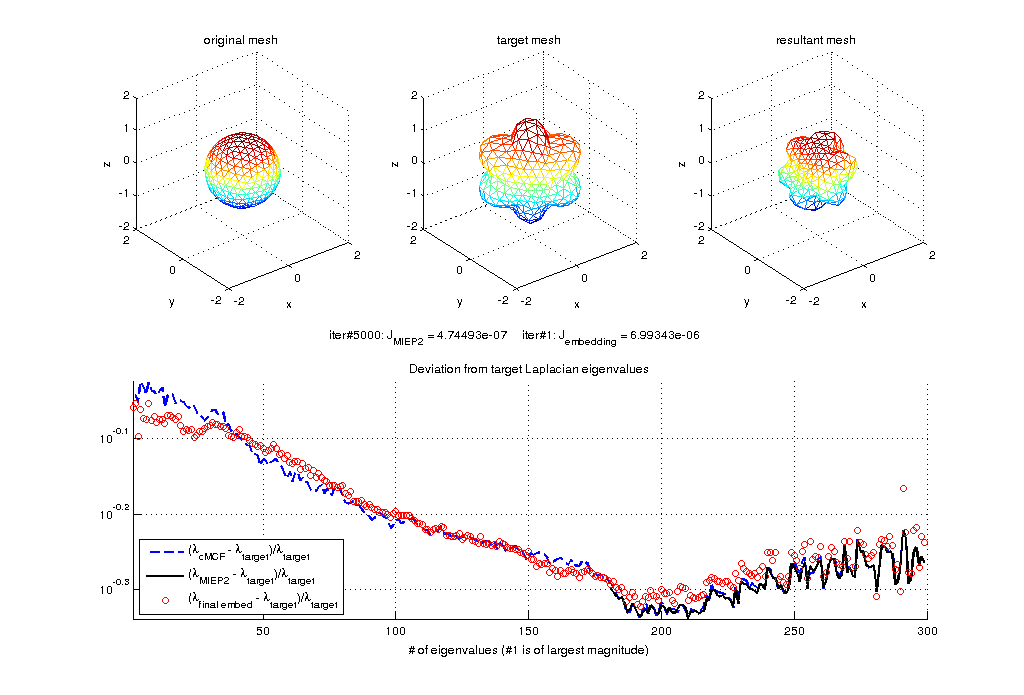
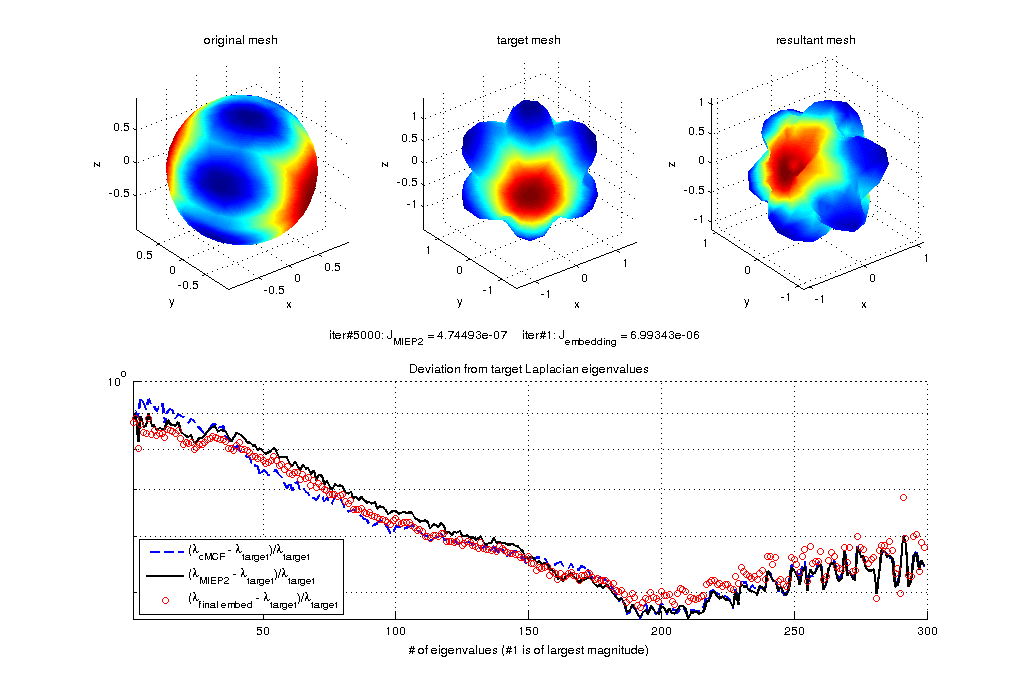
new_vis

diff --git a/do_graphics.m b/do_graphics.m
@@ -1,5 +1,5 @@
 close all;
-[~,datalist] = unix('basename -s .mat -a i3*bunny2k*0.3p*.mat');
+[~,datalist] = unix('basename -s .mat -a i*.mat');
 % [token,remain] = strtok(datalist);
 datalist = textscan(datalist,'%s');
 for i = 1:size(datalist{1},1)
@@ -13,15 +13,15 @@ for i = 1:size(datalist{1},1)
   hgexport(figh,[token '.png'],...
       hgexport('factorystyle'), 'Format', 'png');
 %   [token,remain] = strtok(remain);
-%   close all;
+  close all;
 end
 
 %% two gifs
-% unix('mv i2_300_t2_abs\(Y32\(v\)\)_e0.1p1.png i2_300_t2_abs\(Y32\(v\)\)_e0.1p1.0.png')
-% unix('mv i2_300_t2_abs\(Y32\(v\)\)_e0.1p2.png i2_300_t2_abs\(Y32\(v\)\)_e0.1p2.0.png')
-% unix('convert -delay 100 -loop 0 i2_300_t2_abs\(Y32\(v\)\)_e*.png i2_300_t2_abs\(Y32\(v\)\)_e0.1p0.5-2.gif');
-% unix('mv i3_300_t2_abs\(Y32\(v\)\)_e0.1p1.png i3_300_t2_abs\(Y32\(v\)\)_e0.1p1.0.png')
-% unix('mv i3_300_t2_abs\(Y32\(v\)\)_e0.1p2.png i3_300_t2_abs\(Y32\(v\)\)_e0.1p2.0.png')
-% unix('convert -delay 100 -loop 0 i3_300_t2_abs\(Y32\(v\)\)_e*.png i3_300_t2_abs\(Y32\(v\)\)_e0.1p0.5-2.gif');
-% unix('mv i2_300_t2_abs\(Y33\(v\)\)_e1p0.5.png i2_300_t2_abs\(Y33\(v\)\)_e1.0p0.5.png')
-% unix('convert -delay 100 -loop 0 i2_300_t2_abs\(Y33\(v\)\)_e*.png i2_300_t2_abs\(Y33\(v\)\)_e0.1-1p0.5.gif');
+unix('mv i2_300_t2_abs\(Y32\(v\)\)_e0.1p1.png i2_300_t2_abs\(Y32\(v\)\)_e0.1p1.0.png')
+unix('mv i2_300_t2_abs\(Y32\(v\)\)_e0.1p2.png i2_300_t2_abs\(Y32\(v\)\)_e0.1p2.0.png')
+unix('convert -delay 100 -loop 0 i2_300_t2_abs\(Y32\(v\)\)_e*.png i2_300_t2_abs\(Y32\(v\)\)_e0.1p0.5-2.gif');
+unix('mv i3_300_t2_abs\(Y32\(v\)\)_e0.1p1.png i3_300_t2_abs\(Y32\(v\)\)_e0.1p1.0.png')
+unix('mv i3_300_t2_abs\(Y32\(v\)\)_e0.1p2.png i3_300_t2_abs\(Y32\(v\)\)_e0.1p2.0.png')
+unix('convert -delay 100 -loop 0 i3_300_t2_abs\(Y32\(v\)\)_e*.png i3_300_t2_abs\(Y32\(v\)\)_e0.1p0.5-2.gif');
+unix('mv i2_300_t2_abs\(Y33\(v\)\)_e1p0.5.png i2_300_t2_abs\(Y33\(v\)\)_e1.0p0.5.png')
+unix('convert -delay 100 -loop 0 i2_300_t2_abs\(Y33\(v\)\)_e*.png i2_300_t2_abs\(Y33\(v\)\)_e0.1-1p0.5.gif');

diff --git a/visualize.m b/visualize.m
@@ -24,10 +24,12 @@ v_end = dcmrot(v_end,dcm_end);
 
 figh = figure(); set(gcf,'outerposition',[0, 0, 1024, 768]);
 %% compare mesh
-Mesh0 = TriRep(f,v); %triangulation(f,v);
 subplot(2,3,1); hold all; view(3); grid on; axis equal
-trimesh(Mesh0);
-set(gca,'xlim',[-2 2],'ylim',[-2 2],'zlim',[-2 2]);
+trisurf(f,v(:,1),v(:,2),v(:,3),s_T,...
+  'facecolor','interp','edgecolor','none')
+vlim = max(max(abs(v)));
+vlim = [-vlim vlim];
+set(gca,'xlim',vlim,'ylim',vlim,'zlim',vlim);
 xlabel('x'); ylabel('y'); zlabel('z');
 title('original mesh');
 
@@ -36,18 +38,22 @@ if isempty(v_T)
   text(0,0.5,'target given as spectrum');
   set(gca, 'visible', 'off')
 else
-  Mesh_T = TriRep(f_T,v_T); %triangulation(f_T,v_T);
   subplot(2,3,2); hold all; view(3); grid on; axis equal
-  trimesh(Mesh_T);
-  set(gca,'xlim',[-2 2],'ylim',[-2 2],'zlim',[-2 2]);
+  trisurf(f_T,v_T(:,1),v_T(:,2),v_T(:,3),s_T,...
+    'facecolor','interp','edgecolor','none')
+  vlim = max(max(abs(v_T)));
+  vlim = [-vlim vlim];
+  set(gca,'xlim',vlim,'ylim',vlim,'zlim',vlim);
   xlabel('x'); ylabel('y'); zlabel('z');
   title('target mesh');
 end
 
-Mesh_end = TriRep(f,v_end); %triangulation(f,v_end);
 subplot(2,3,3); hold all; view(3); grid on; axis equal
-trimesh(Mesh_end);
-set(gca,'xlim',[-2 2],'ylim',[-2 2],'zlim',[-2 2]);
+trisurf(f,v_end(:,1),v_end(:,2),v_end(:,3),s_end,...
+  'facecolor','interp','edgecolor','none')
+vlim = max(max(abs(v_end)));
+vlim = [-vlim vlim];
+set(gca,'xlim',vlim,'ylim',vlim,'zlim',vlim);
 xlabel('x'); ylabel('y'); zlabel('z');
 title('resultant mesh');
 
